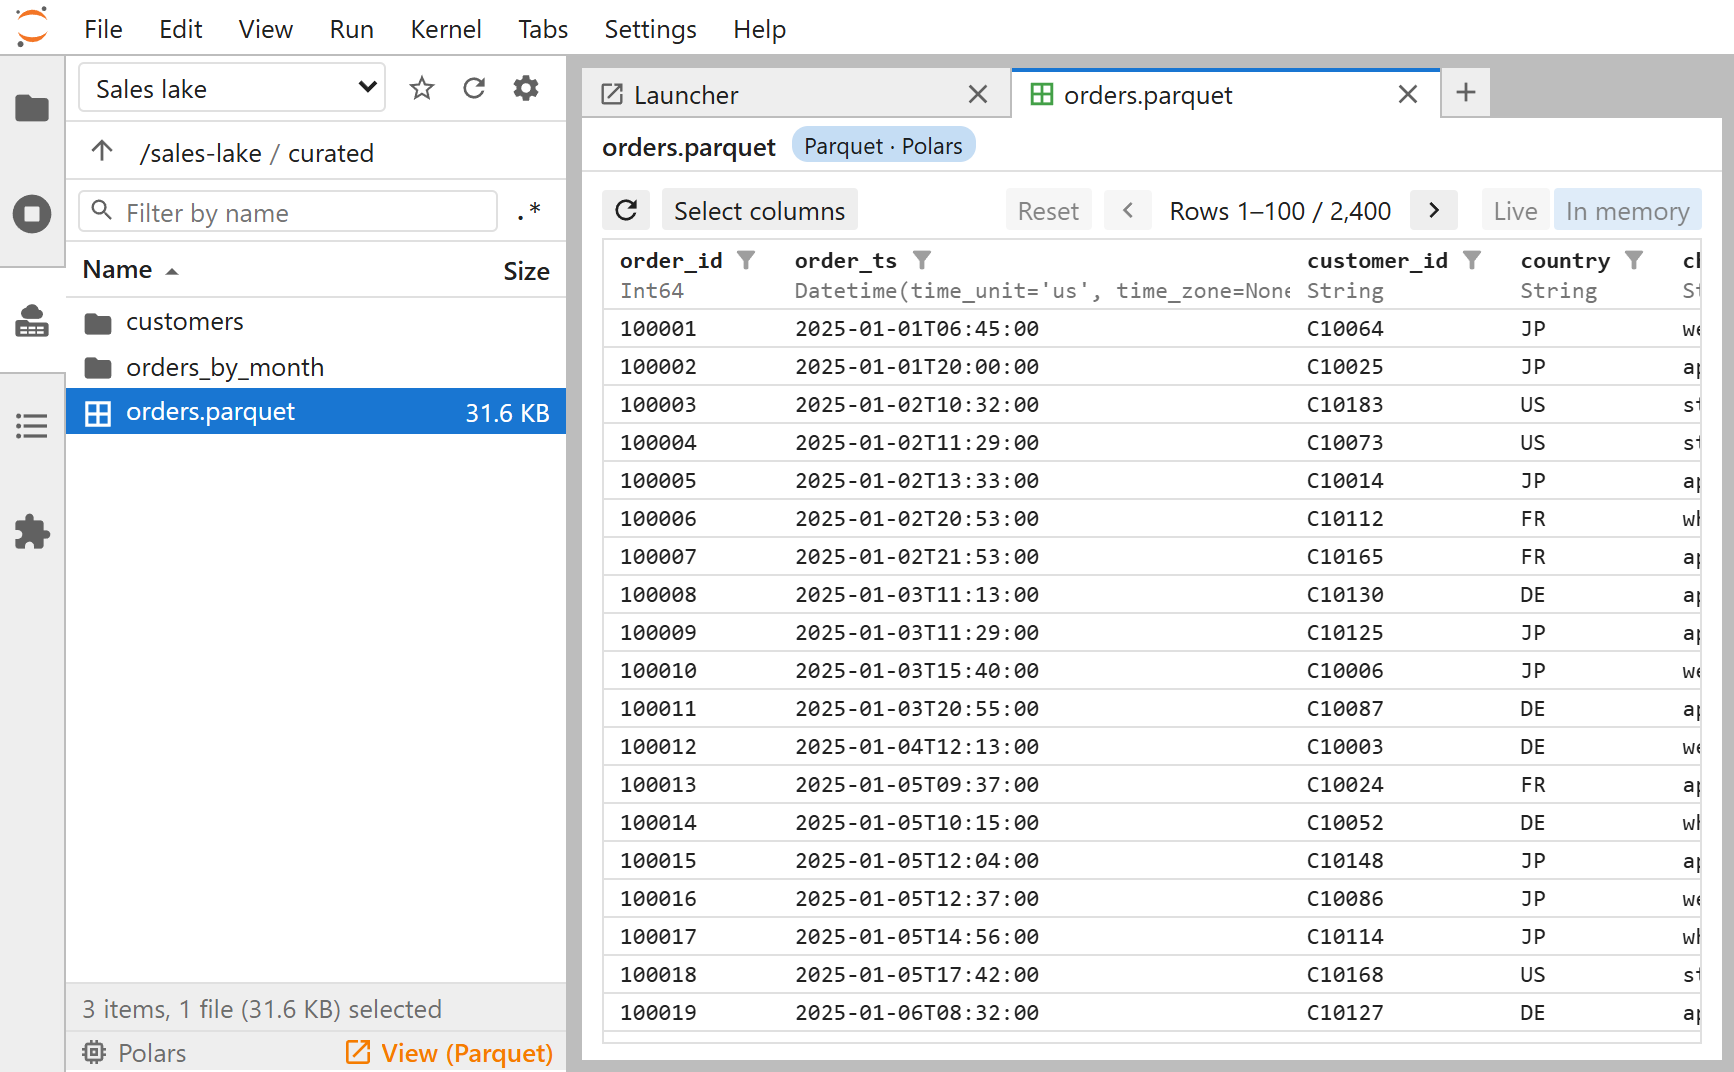
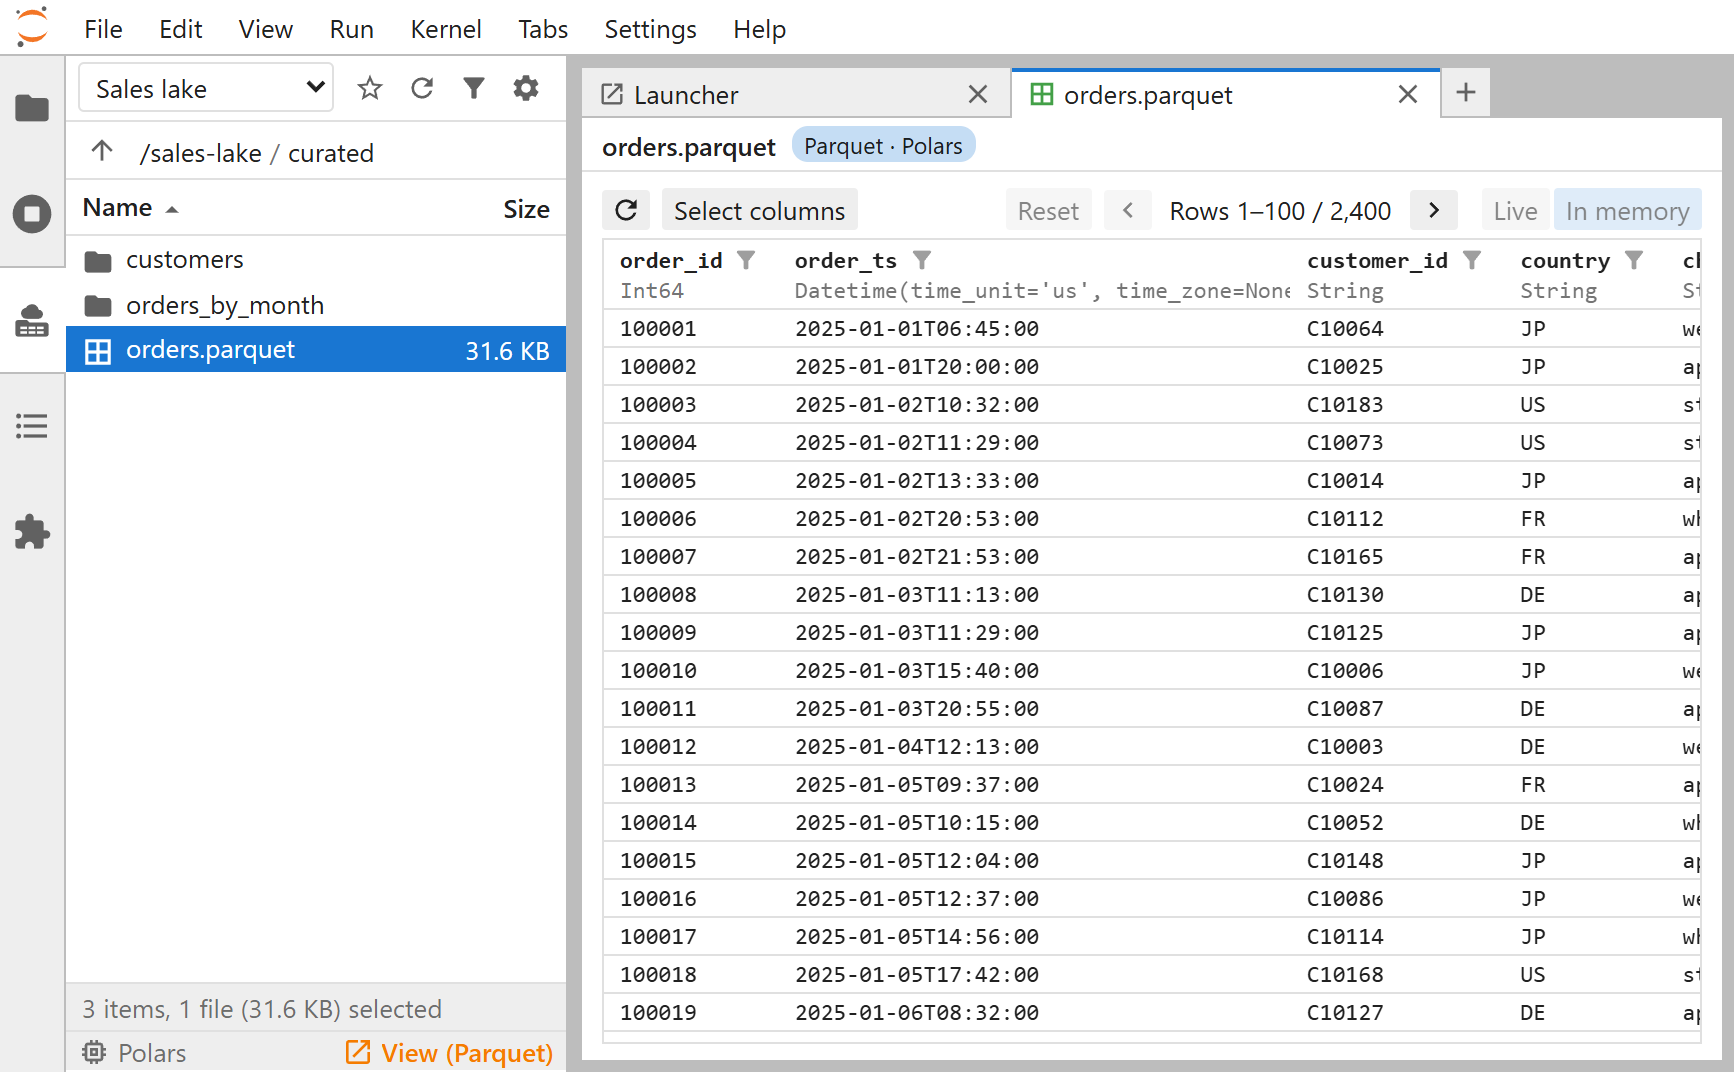
Side panel: a filter button, showing the filter on demand
In the sidebar layout (the launcher's side panel), the list's filter is
hidden until the filter button, left of the settings button, shows it,
with the cursor in it, as in JupyterLab's file browser; pressed again,
the button hides and clears it. The side panel's picture is retaken.

Claude-Session: https://claude.ai/code/session_01HAwtBQoU26mZV3X6NRDYj5

Changed region(s): [[0.0311, 0.1847, 0.3426, 0.431], [0.1869, 0.0616, 0.2803, 0.0924]]

diff --git a/src/jupyter_storage_explorer/static/storage_explorer/toolbar.js b/src/jupyter_storage_explorer/static/storage_explorer/toolbar.js
@@ -1,8 +1,9 @@
 // The toolbar: the tree's button, bookmarks, Up, Refresh, the folder's path,
 // Unsafe mode, and the settings menu: the list's Columns, "Edit
 // configuration" in the launcher's tabs, "About". The sidebar layout has two narrower bars: the storage
-// chooser (slot), bookmarks, Refresh and the settings menu, whose first item
-// is then Unsafe mode; below (pathBar), Up and the folder's path.
+// chooser (slot), bookmarks, Refresh, the filter button (the list's filter,
+// hidden until it is pressed) and the settings menu, whose first item is
+// then Unsafe mode; below (pathBar), Up and the folder's path.
 
 function createToolbar(x) {
   const { model } = x;
@@ -13,11 +14,14 @@ function createToolbar(x) {
   const refreshBtn = iconButton("refresh", "Refresh");
   const pathEl = h("div", { className: "jse-path" });
   const settingsBtn = iconButton("settings", "Settings", "jse-settings-btn");
+  // The sidebar layout's filter button, left of the settings: shows or hides
+  // the list's filter (list.js' showFilter), as JupyterLab's file browser's.
+  const filterBtn = iconButton("filter", "Show the filter", "jse-filter-btn");
   // Where the storage chooser goes in the sidebar layout (see placeStorages
   // in storage_explorer.js); it takes the bar's room left by the buttons.
   const slot = h("div", { className: "jse-storage-slot" });
   const el = sidebar
-    ? h("div", { className: "jse-toolbar" }, treeBtn, slot, x.bookmarks.button, refreshBtn, settingsBtn)
+    ? h("div", { className: "jse-toolbar" }, treeBtn, slot, x.bookmarks.button, refreshBtn, filterBtn, settingsBtn)
     : h("div", { className: "jse-toolbar" }, treeBtn, x.bookmarks.button, upBtn, refreshBtn, pathEl, x.unsafe.el, settingsBtn);
   const pathBar = sidebar ? h("div", { className: "jse-path-bar" }, upBtn, pathEl) : null;
 
@@ -36,6 +40,13 @@ function createToolbar(x) {
     treeBtn.title = state === "open" ? "Hide the folder tree" : "Show the folder tree";
     treeBtn.ariaLabel = treeBtn.title;
   }
+
+  filterBtn.addEventListener("click", () => {
+    const on = !x.list.filterShown();
+    x.list.showFilter(on);
+    filterBtn.classList.toggle("jse-on", on);
+    filterBtn.title = filterBtn.ariaLabel = on ? "Hide the filter" : "Show the filter";
+  });
 
   treeBtn.addEventListener("click", () => {
     model.set("_tree_view", model.get("_tree_view") === "open" ? "closed" : "open");

diff --git a/src/jupyter_storage_explorer/static/storage_explorer/list.js b/src/jupyter_storage_explorer/static/storage_explorer/list.js
@@ -68,6 +68,19 @@ function createList(x) {
   const pane = h("div", { className: "jse-pane jse-list-pane" }, bar, el, ...(sidebar ? [pagerEl] : []));
   const statusEl = h("div", { className: "jse-status" });
 
+  // In the sidebar layout, the filter shows on demand (the toolbar's filter
+  // button), as in JupyterLab's file browser: there its bar holds only the
+  // filter. Hidden, it filters nothing.
+  let filterShown = !sidebar;
+  bar.hidden = !filterShown;
+
+  function showFilter(on) {
+    filterShown = on;
+    bar.hidden = !on;
+    if (on) filter.focus();
+    else filter.clear();
+  }
+
   // --- The listing, decoded and sorted ---
 
   // The current directory's items (_listing), decoded once per listing. None
@@ -477,6 +490,8 @@ function createList(x) {
     flash,
     entriesAt,
     open,
+    showFilter,
+    filterShown: () => filterShown,
     locationOf,
     dispose: () => clearTimeout(flashTimer),
   };

diff --git a/src/jupyter_storage_explorer/static/storage_explorer.css b/src/jupyter_storage_explorer/static/storage_explorer.css
@@ -33,7 +33,8 @@
 }
 
 /* The tree's button, first in the toolbar: highlighted while the tree shows. */
-.jse-tree-btn.jse-on {
+.jse-tree-btn.jse-on,
+.jse-filter-btn.jse-on {
   color: var(--jse-accent);
 }
 
@@ -189,7 +190,8 @@
   white-space: nowrap;
 }
 
-.jse-pager[hidden] {
+.jse-pager[hidden],
+.jse-pane-bar[hidden] {
   display: none;
 }
 

diff --git a/tests/browser/smoke.py b/tests/browser/smoke.py
@@ -1487,6 +1487,18 @@ def side_panel(lab: Lab, page: Page) -> None:
     menu.first.click()
     expect(settings).not_to_have_class(re.compile(r"\bjse-unsafe-on\b"))
     row = side.locator(".jse-list tbody tr")
+    # The filter, hidden until its button (left of the settings) shows it;
+    # hidden again, it filters nothing.
+    filter_btn = side.locator(".jse-toolbar .jse-filter-btn")
+    field = side.locator(".jse-list-pane .jse-filter-input")
+    expect(field).to_be_hidden()
+    filter_btn.click()
+    expect(field).to_be_focused()
+    field.press_sequentially("cur")
+    expect(row).to_have_count(1)
+    filter_btn.click()
+    expect(field).to_be_hidden()
+    expect(row.filter(has=page.get_by_text("landing", exact=True))).to_be_visible()
     row.filter(has=page.get_by_text("curated", exact=True)).dblclick()
     expect(side.locator(".jse-crumb").last).to_have_text("curated")
     row.filter(has=page.get_by_text("orders.parquet", exact=True)).click(button="right")

diff --git a/docs/storage-explorer.md b/docs/storage-explorer.md
@@ -482,7 +482,7 @@ Views:
 | `height="400px"`              | Height of the tree and list; the preview panel adds its own space below. `"fill"`: as tall as the container, e.g. the launcher's tab. |
 | `tree_view="open"`            | The folder tree: `"open"`, `"closed"` (its button in the toolbar shows it) or `"disabled"` (no tree).                                |
 | `preview_panel="closed"`      | The preview panel: `"open"` starts with it open, so that clicking a file previews it; `"disabled"`: none, items open in new tabs (**View** in place of Preview). |
-| `layout="standard"`           | `"sidebar"`: a narrow layout, as in the launcher's side panel: Unsafe mode in the ⚙ menu, Up and the path on a bar of their own, the list with Size only by default, the pager below it. |
+| `layout="standard"`           | `"sidebar"`: a narrow layout, as in the launcher's side panel: Unsafe mode in the ⚙ menu, Up and the path on a bar of their own, the filter shown with its button (left of ⚙), the list with Size only by default, the pager below it. |
 | `view_limits=ViewLimits(...)` | How much views read and show (`formats.ViewLimits`): `max_bytes`, `max_display_rows` (also the data browser's page size), `max_whole_file_bytes`, `max_live_rows`, `max_memory_rows`. |
 | `max_browser_items=20_000`    | Folders with more items are filtered, sorted and paged by the kernel, one page at a time, instead of the browser (`None`: never).     |
 | `fetch_rows=...`              | How the data browser reads pages; see [Reading pages](#reading-pages).                                                                |

diff --git a/CLAUDE.md b/CLAUDE.md
@@ -263,8 +263,9 @@ whichever key a filesystem uses.
 `"disabled"`, fixed at creation, `_tree_disabled`), `preview_panel` (`_preview_panel`: `"open"` starts with
 `_preview` `{"empty": true}`; `"disabled"`: no Preview rows, the `"preview"` notice ignored, items viewed in new
 tabs, `x.preview.view`, and the Preview button is View, a tab of the same target, hidden without the extension) and `layout` (`_layout`: `"sidebar"`, class `jse-sidebar`: a bar of the storage chooser,
-bookmarks, Refresh and ⚙, whose menu has Unsafe mode first (the button red while on, `renderUnsafe`); a bar of Up and
-the path; the filter; the list; the pager below it). The list's columns besides Name (`_columns`: `"size"`, `"mtime"`,
+bookmarks, Refresh, the filter button and ⚙, whose menu has Unsafe mode first (the button red while on,
+`renderUnsafe`); a bar of Up and the path; the filter, hidden until its button shows it (`x.list.showFilter`,
+cleared when hidden), as JupyterLab's file browser's; the list; the pager below it). The list's columns besides Name (`_columns`: `"size"`, `"mtime"`,
 `"ctime"`, `"format"`, `_LIST_COLUMNS`; default Size and Modified, the sidebar's Size) are chosen in ⚙ → Columns and
 remembered by layout (`ExplorerStates.columns(layout)`, JSON "columns"); the kernel's `Listing` sorts by each, Format by
 label, as the browser does. Otherwise the storage chooser sits above the tree

diff --git a/launcher/README.md b/launcher/README.md
@@ -11,8 +11,9 @@ the folder JupyterLab's file browser shows.
 It also adds a **side panel**: click the Storage Explorer icon in JupyterLab's left side bar (or *Show Storage
 Explorer in the Side Bar* in the command palette) for a narrow explorer next to your notebooks, with the same storages
 as the tab: the list of a folder, without the tree or the preview panel; files you view (**View** at the bottom, a
-double-click, or right-click → **View in new tab**) open in new tabs. Its kernel
-starts when you first open it, and it stays open after a page reload.
+double-click, or right-click → **View in new tab**) open in new tabs. The filter button, left of ⚙, shows the filter
+by name, as in JupyterLab's file browser. Its kernel starts when you first open it, and it stays open after a page
+reload.
 
 <img src="https://raw.githubusercontent.com/sugibuchi/jupyter-storage-explorer/main/launcher/figs/side-panel.png" width="867" alt="The side panel in JupyterLab's left side bar, a Parquet file selected, beside the tab its View button opened in the data browser">
 
